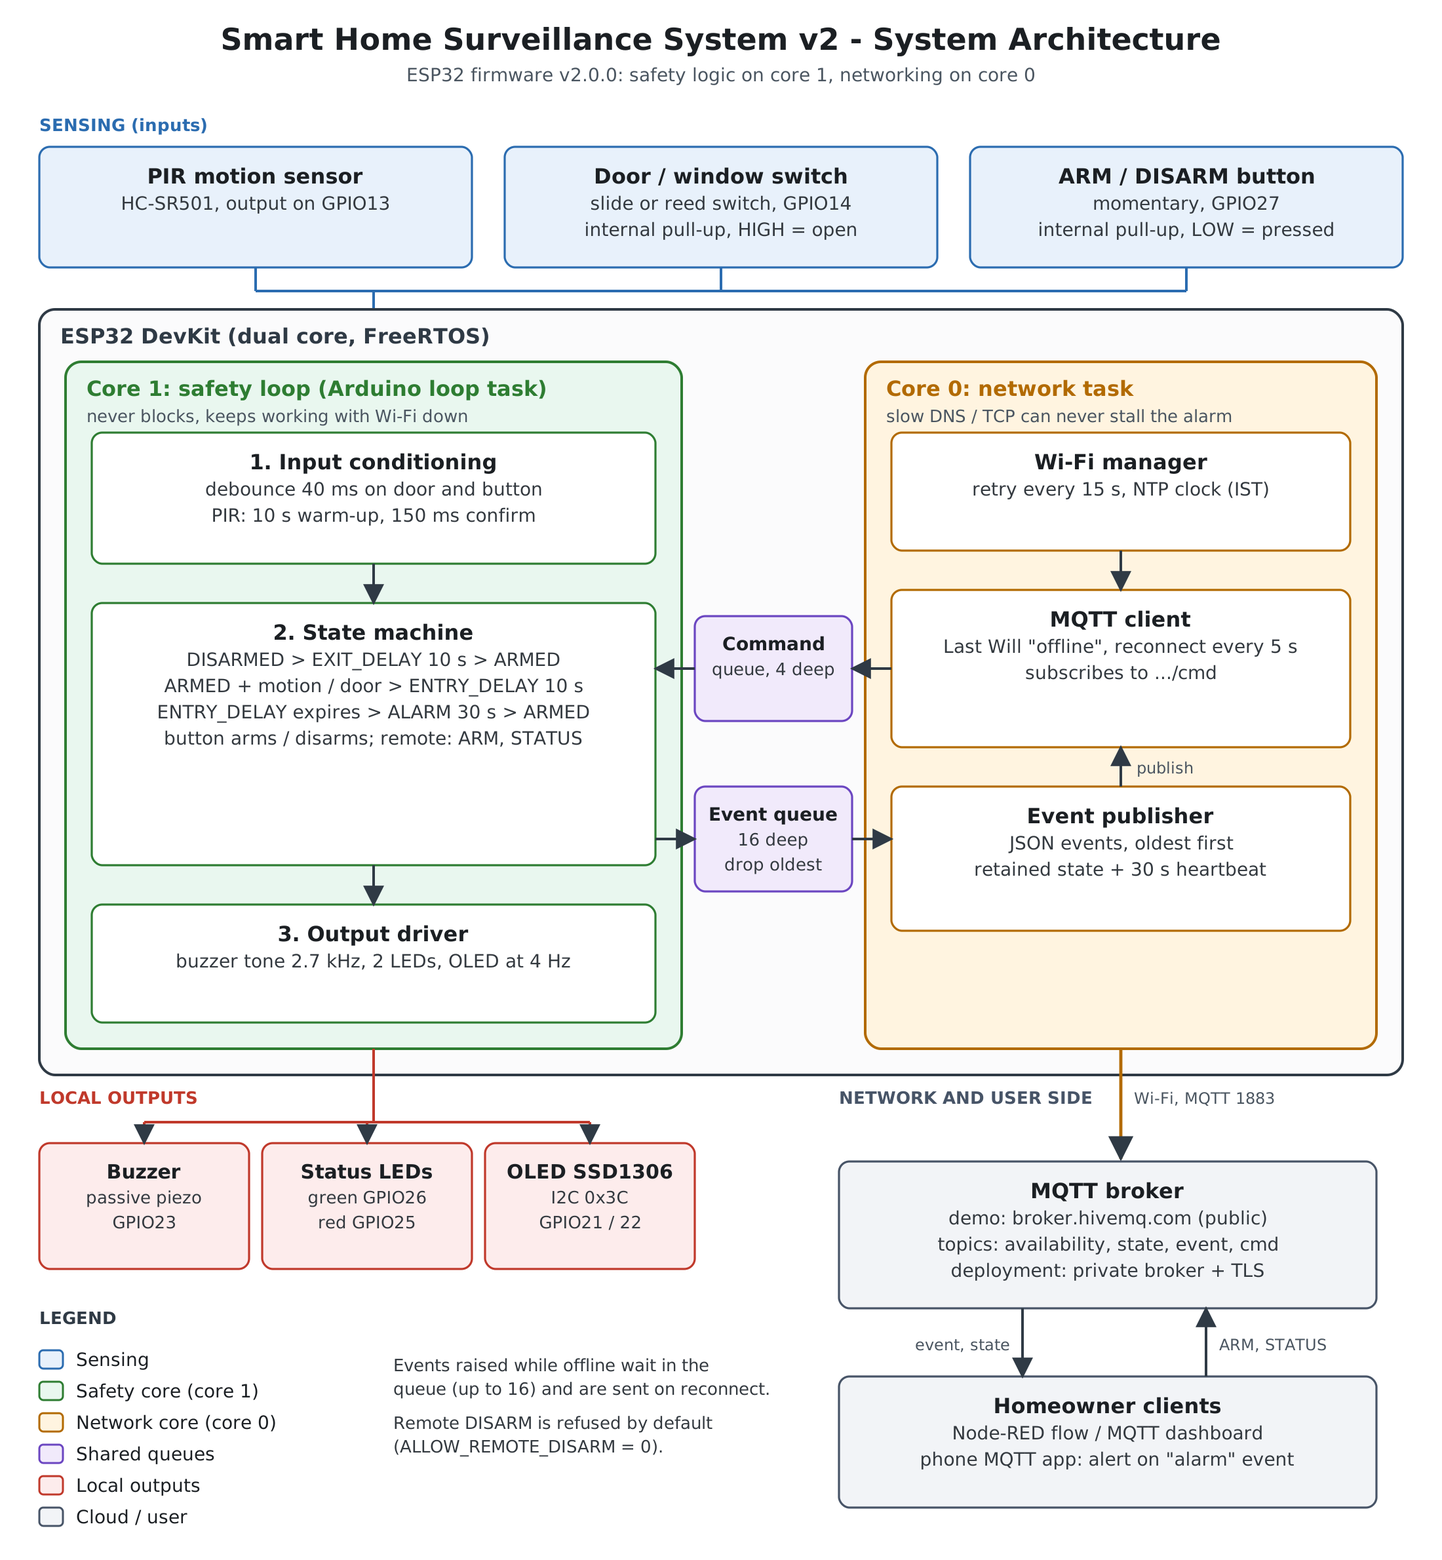
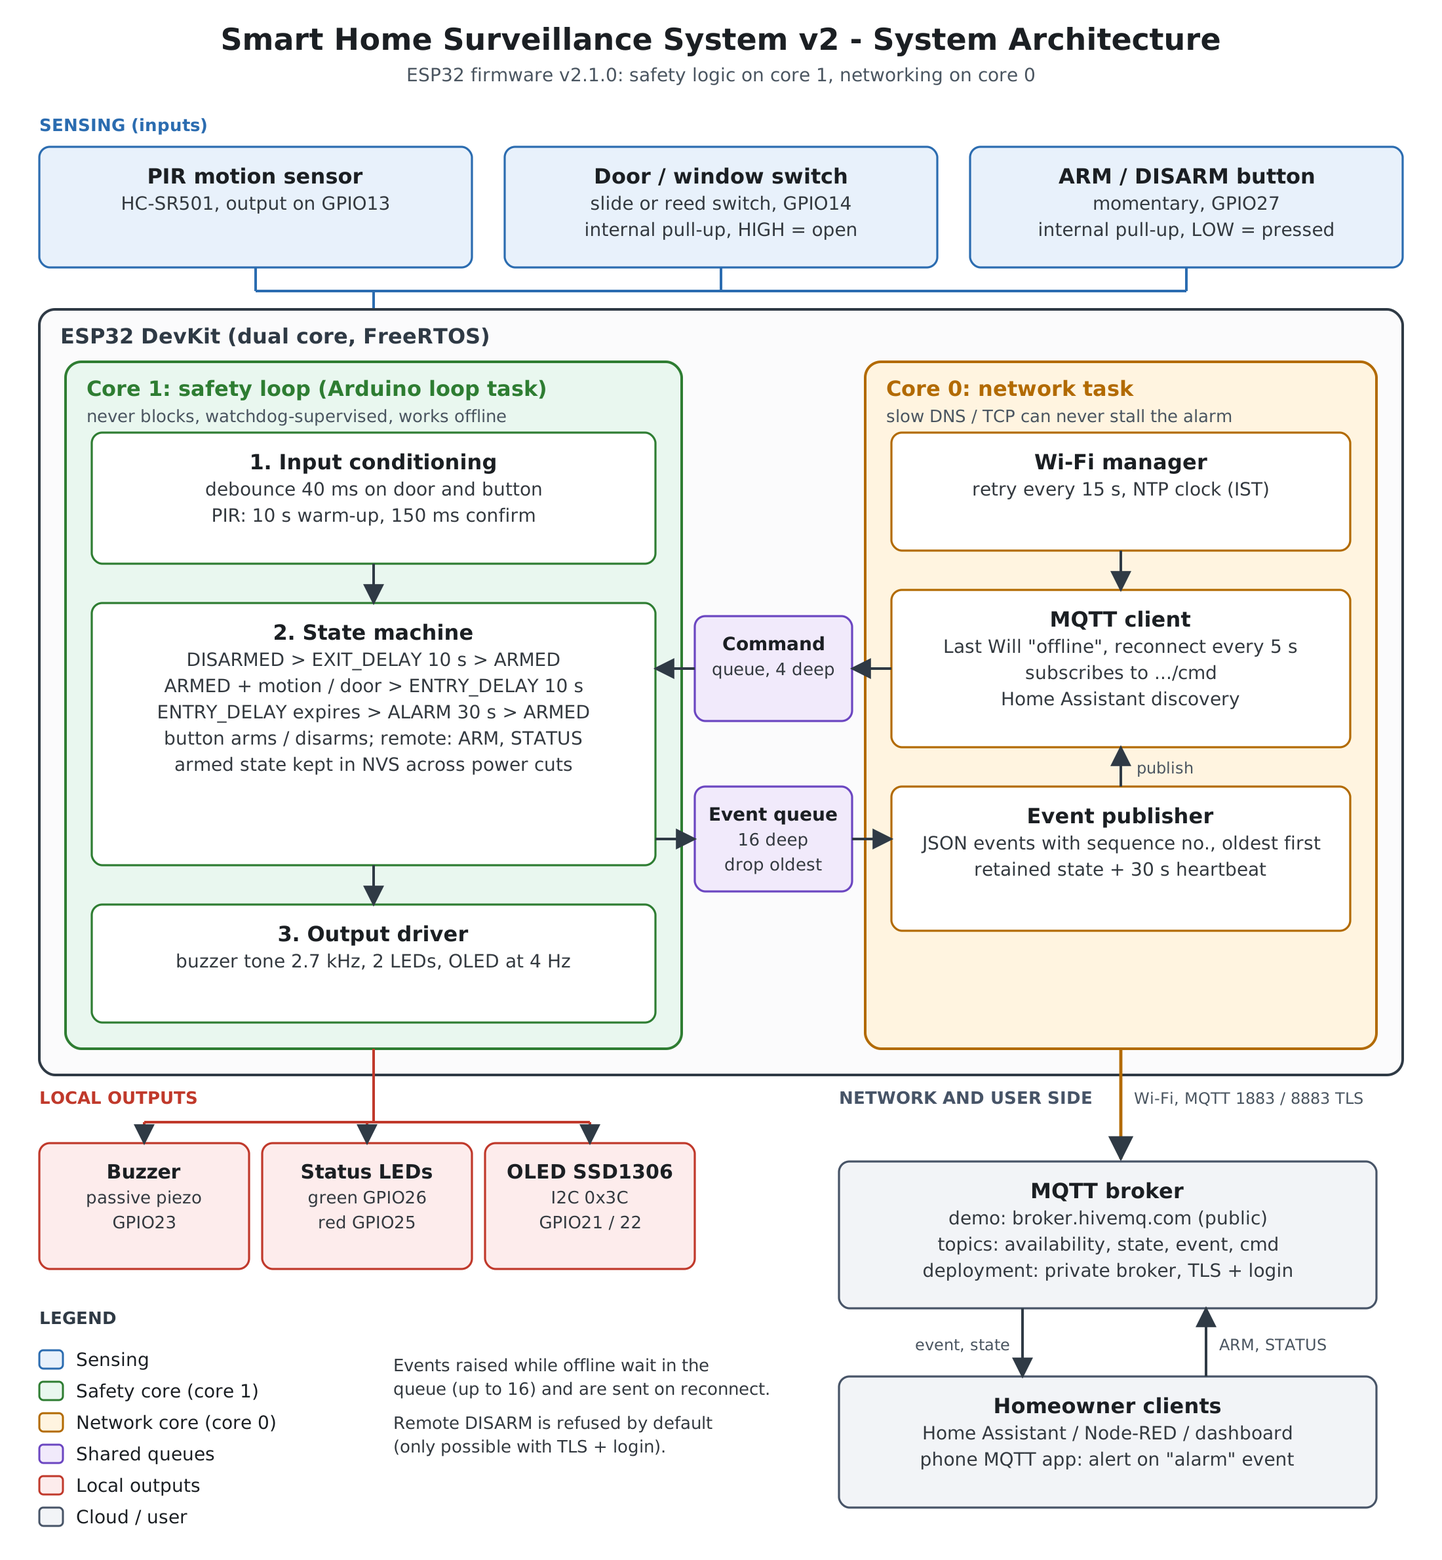
docs: rewrite README for v2.1.0, add security policy, changelog and diagrams
Adds the state machine and event sequence diagrams, updates the architecture diagram for NVS restore, watchdog, discovery and TLS, documents configuration, MQTT payloads, Home Assistant mapping, reliability measures and real ESP32 build sizes from CI.

diff --git a/README.md b/README.md
@@ -1,100 +1,247 @@
-# Smart Home Automation: Surveillance System
+# Smart Home Surveillance System
 
-![CI](https://github.com/mdhumayun7/Smart-Home-Automation/actions/workflows/ci.yml/badge.svg)
-![License: MIT](https://img.shields.io/badge/license-MIT-blue.svg)
+[![CI](https://github.com/mdhumayun7/Smart-Home-Automation/actions/workflows/ci.yml/badge.svg)](https://github.com/mdhumayun7/Smart-Home-Automation/actions/workflows/ci.yml)
+[![Release](https://img.shields.io/github/v/release/mdhumayun7/Smart-Home-Automation)](https://github.com/mdhumayun7/Smart-Home-Automation/releases)
+![Platform](https://img.shields.io/badge/platform-ESP32-blue)
+![Framework](https://img.shields.io/badge/arduino--esp32-2.0.17%20%7C%203.3.12-informational)
+[![License: MIT](https://img.shields.io/badge/license-MIT-green.svg)](LICENSE)
 
-An ESP32-based home surveillance system: motion and door sensing, a proper arm / disarm state machine with entry and exit delays, local siren and status display, and MQTT alerts. The alarm logic runs fully offline; networking lives in a separate FreeRTOS task so it can never stall the siren.
+ESP32 intrusion alarm firmware with a PIR motion sensor, a door contact, a local siren and status display, MQTT alerts and Home Assistant integration.
 
-Developed as part of M.Tech coursework at SVNIT Surat.
+Its main design rule is that the alarm never depends on the network. The detection logic and the siren run on one core and never wait for anything. Wi-Fi, NTP and MQTT run in a separate FreeRTOS task on the other core and exchange data with the alarm logic only through bounded queues.
+
+![Demo: software-in-the-loop run of the firmware](docs/media/demo.gif)
+
+*Software-in-the-loop run of the firmware: logic analyser view of the GPIO lines, live source trace, the display and MQTT traffic. [Full 2-minute video](docs/media/smart_home_demo.mp4).*
+
+---
+
+## Contents
+
+- [Features](#features)
+- [Architecture](#architecture)
+- [Hardware](#hardware)
+- [Getting started](#getting-started)
+- [Configuration](#configuration)
+- [MQTT interface](#mqtt-interface)
+- [Home Assistant](#home-assistant)
+- [Reliability and safety](#reliability-and-safety)
+- [Testing and CI](#testing-and-ci)
+- [Project structure](#project-structure)
+- [Roadmap](#roadmap)
 
 ## Features
 
-- Arm / disarm with exit delay (10 s), entry delay (10 s) and alarm timeout (30 s)
-- PIR motion sensing with warm-up, confirmation filter and rising-edge trigger
-- Door switch and button inputs with debouncing
-- Local outputs: buzzer, green (armed) and red (alarm) LEDs, SSD1306 OLED status screen
-- MQTT: Last Will availability, retained state, heartbeat, per-event JSON, remote `ARM` / `STATUS`
-- Offline event queue (16 deep) delivered in order after reconnect
-- Non-blocking firmware: no `delay()` in the safety path, display failure does not halt the system
-- Host-side unit tests run in CI
+**Alarm logic**
+- Five-state machine: `DISARMED`, `EXIT_DELAY` (10 s), `ARMED`, `ENTRY_DELAY` (10 s), `ALARM` (30 s, then re-arms)
+- PIR filtering: warm-up period, 150 ms confirmation and rising-edge trigger, so one person standing still does not retrigger the alarm
+- Door contact and ARM/DISARM button with 40 ms debouncing
+- Buzzer (2.7 kHz tone), two status LEDs and an SSD1306 OLED status screen
+
+**Reliability**
+- No blocking calls in the safety loop; all timing is wrap-safe across the 49.7-day `millis()` overflow
+- Armed state stored in NVS and restored after a power cut, so cutting the supply does not disarm the house
+- Task watchdog on the safety loop; the boot event reports the reset reason
+- Offline event queue (16 events) delivered in order after reconnecting; losses are counted, never silent
+
+**Connectivity and security**
+- MQTT with Last Will, retained state, 30 s heartbeat and one JSON message per event with a sequence number
+- Remote `ARM` and `STATUS`; remote `DISARM` is refused unless TLS and a broker login are configured (enforced at compile time)
+- Credentials in a git-ignored `secrets.h`; optional TLS on port 8883
+- Home Assistant MQTT discovery as an alarm control panel
 
 ## Architecture
 
 ![System architecture](docs/images/architecture.png)
 
-Safety logic runs on core 1 (Arduino loop). Wi-Fi, NTP and MQTT run on core 0 and talk to it only through two queues.
+| Core | Task | Responsibility |
+|---|---|---|
+| 1 | Arduino `loop` (safety loop) | Input conditioning, state machine, buzzer, LEDs, display. Never calls the network. |
+| 0 | `net` task | Wi-Fi with retry, NTP, MQTT connection, event delivery, heartbeat, Home Assistant discovery. |
+
+The two tasks share two FreeRTOS queues (events from core 1 to core 0, commands from core 0 to core 1) and one status snapshot that is protected by a mutex. The safety loop never waits on the mutex; it skips a snapshot rather than block.
+
+<details>
+<summary>State machine</summary>
+
+![State machine](docs/images/state_machine.png)
+
+If the door is still open when the exit delay ends, the entry delay starts immediately. Only the local button can disarm the system by default.
+</details>
+
+<details>
+<summary>Event delivery and command flow</summary>
+
+![Event sequence](docs/images/event_sequence.png)
+
+The network task removes an event from the queue before publishing it. If the link drops during the publish, the event goes back to the front of the queue, so the order is kept and nothing is lost silently.
+</details>
 
 ## Hardware
 
 ![Circuit wiring](docs/images/circuit_wiring.png)
 
-| GPIO | Part | Note |
+| GPIO | Part | Notes |
 |---|---|---|
-| 13 | PIR OUT | PIR powered from VIN (5 V); OUT is 3.3 V logic |
-| 14 | Door switch | `INPUT_PULLUP`, HIGH = open |
-| 27 | ARM / DISARM button | `INPUT_PULLUP`, LOW = pressed |
-| 23 | Buzzer | 2.7 kHz tone (passive piezo); set `BUZZER_ACTIVE 1` for an active buzzer |
-| 26 | Green LED (ARMED) | 220 ohm series resistor |
-| 25 | Red LED (ALARM) | 220 ohm series resistor |
-| 21 / 22 | OLED SDA / SCL | SSD1306, address 0x3C |
+| 13 | HC-SR501 PIR, OUT | Powered from VIN (5 V); OUT is 3.3 V logic |
+| 14 | Door contact (reed or slide switch) | `INPUT_PULLUP`; HIGH = open |
+| 27 | ARM/DISARM push button | `INPUT_PULLUP`; LOW = pressed |
+| 23 | Piezo buzzer | 2.7 kHz tone from the LEDC peripheral; `BUZZER_ACTIVE 1` for an active buzzer |
+| 26 | Green LED (armed) | 220 ohm series resistor |
+| 25 | Red LED (alarm) | 220 ohm series resistor |
+| 21 / 22 | SSD1306 OLED, SDA / SCL | I2C address 0x3C |
 
-## Quick start (Wokwi simulator)
+None of the ESP32 strapping pins (GPIO 0, 2, 5, 12, 15) is used.
 
-1. Create a new ESP32 project at [wokwi.com](https://wokwi.com).
-2. Replace its `sketch.ino` with `firmware/smart_home/smart_home.ino`, `diagram.json` with `wokwi/diagram.json`, and `libraries.txt` with `wokwi/libraries.txt`.
-3. Start the simulation, click the ARM button, wait for `ARMED`, then click the PIR or toggle the door switch.
+**Bill of materials:** ESP32 DevKit v1, HC-SR501 PIR module, reed switch, tactile push button, passive piezo buzzer, green and red 5 mm LEDs with two 220 ohm resistors, 0.96" SSD1306 OLED (I2C).
 
-Required libraries: Adafruit SSD1306, Adafruit GFX Library, PubSubClient.
+**Build size** (from CI, `esp32:esp32:esp32`):
+
+| arduino-esp32 | Flash | RAM (globals) |
+|---|---|---|
+| 2.0.17 | 790,649 B (60.3 % of 1,310,720) | 46,204 B (14.1 % of 327,680) |
+| 3.3.12 | 965,281 B (73.6 % of 1,310,720) | 49,708 B (15.2 % of 327,680) |
+
+## Getting started
+
+### In the Wokwi simulator
+
+1. Create an ESP32 project at [wokwi.com](https://wokwi.com).
+2. Copy `firmware/smart_home/smart_home.ino` into `sketch.ino`, and replace `diagram.json` and `libraries.txt` with the files in `wokwi/`.
+3. Start the simulation. Press the ARM button, wait for `ARMED`, then click the PIR sensor or toggle the door switch.
+
+The default build uses the simulator's `Wokwi-GUEST` network and the public HiveMQ broker, so no configuration is needed.
+
+### On an ESP32 board
+
+1. Install the ESP32 board package (arduino-esp32 2.0.17 or 3.x) and the libraries **Adafruit SSD1306**, **Adafruit GFX Library** and **PubSubClient**.
+2. Copy `firmware/smart_home/secrets.example.h` to `firmware/smart_home/secrets.h` and fill in your Wi-Fi and broker details.
+3. Set `PIR_WARMUP_MS` to `60000` for a physical HC-SR501, which needs about a minute to settle.
+4. Select **ESP32 Dev Module** and upload. The Serial Monitor (115200 baud) prints the device id and the MQTT topics.
+
+With `arduino-cli`:
+
+```bash
+arduino-cli compile --fqbn esp32:esp32:esp32 firmware/smart_home
+arduino-cli upload  --fqbn esp32:esp32:esp32 -p /dev/ttyUSB0 firmware/smart_home
+```
+
+## Configuration
+
+| Setting | Where | Default |
+|---|---|---|
+| Wi-Fi SSID, password, channel | `secrets.h` | `Wokwi-GUEST`, open, channel 6 |
+| Broker host, port, user, password | `secrets.h` | `broker.hivemq.com:1883`, no login |
+| TLS and CA certificate | `secrets.h` (`MQTT_USE_TLS`, `SECRET_MQTT_CA_CERT`) | Off |
+| Remote DISARM | `secrets.h` (`ALLOW_REMOTE_DISARM`) | Off; requires TLS and login |
+| Exit / entry delay, alarm duration | `smart_home.ino` | 10 s / 10 s / 30 s |
+| PIR warm-up and confirmation | `smart_home.ino` | 10 s / 150 ms |
+| Home Assistant discovery | `HA_DISCOVERY` | On |
+| Restore armed state at boot | `RESTORE_ARMED_ON_BOOT` | On |
+| Loop watchdog | `ENABLE_LOOP_WDT` | On |
 
 ## MQTT interface
 
-Topic root: `svnit/smarthome/<deviceId>/` (the device id is printed on the Serial Monitor at boot).
+All topics are under `svnit/smarthome/<deviceId>/`, where the device id is derived from the chip's MAC address (for example `esp32-A1B2C3D4E5F6`).
 
-| Topic | Direction | Content |
-|---|---|---|
-| `availability` | device to broker, retained | `online` / `offline` (Last Will) |
-| `state` | device to broker, retained | JSON: state, door, pir, rssi, counters, uptime |
-| `event` | device to broker | JSON per event (`boot`, `exit_delay`, `armed`, `motion`, `door_open`, `door_closed`, `entry_delay`, `alarm`, `alarm_end`, `disarmed`, `cmd_rejected`, `cmd_ignored`) |
-| `cmd` | broker to device | `ARM`, `STATUS` (`DISARM` only if `ALLOW_REMOTE_DISARM` is 1) |
+| Topic | Direction | Retained | Content |
+|---|---|---|---|
+| `availability` | device to broker | yes | `online`, or `offline` as the Last Will |
+| `state` | device to broker | yes | JSON snapshot on every change and every 30 s |
+| `event` | device to broker | no | One JSON message per event |
+| `cmd` | broker to device | no | `ARM` (or `ARM_AWAY`), `STATUS`; `DISARM` only if enabled |
 
-Quick check: `mosquitto_sub -h broker.hivemq.com -t "svnit/smarthome/#" -v`
+```json
+{"id":"esp32-A1B2C3D4E5F6","seq":7,"ts":1791786626,"up":26150,"event":"motion","src":"pir"}
+```
 
-## Tests
+```json
+{"id":"esp32-A1B2C3D4E5F6","fw":"2.1.0","ts":1791786660,"state":"ALARM","ha":"triggered","door":"closed",
+ "pir":"idle","rssi":-55,"events":12,"alarms":1,"dropped":0,"queued":0,"up_s":60}
+```
+
+Events: `boot` (source = reset reason), `restored_armed`, `exit_delay`, `armed`, `motion`, `door_open`, `door_closed`, `entry_delay`, `alarm`, `alarm_end`, `disarmed`, `cmd_rejected`, `cmd_ignored`.
+
+`ts` is UTC epoch seconds once NTP has synchronised (0 before), `up` is milliseconds since boot, and `seq` increases by one per event since boot, so a client can detect missing or duplicate messages.
+
+Watch the demo device with:
+
+```bash
+mosquitto_sub -h broker.hivemq.com -t "svnit/smarthome/#" -v
+```
+
+## Home Assistant
+
+With the MQTT integration enabled, the device publishes a retained discovery message to `homeassistant/alarm_control_panel/<deviceId>/config` and appears as an alarm panel named **Smart Home Surveillance**. The firmware states map to Home Assistant states as follows:
+
+| Firmware | Home Assistant |
+|---|---|
+| `DISARMED` | `disarmed` |
+| `EXIT_DELAY` | `arming` |
+| `ARMED` | `armed_away` |
+| `ENTRY_DELAY` | `pending` |
+| `ALARM` | `triggered` |
+
+Arming from Home Assistant works out of the box. Disarming from Home Assistant is rejected unless remote disarm has been enabled with TLS and a broker login.
+
+## Reliability and safety
+
+| Concern | How it is handled |
+|---|---|
+| Slow or failed network calls | Run only on core 0; the safety loop never waits for them |
+| `millis()` overflow after 49.7 days | All timing uses unsigned differences or signed deadline comparisons; tests start the clock just before the wrap |
+| Power cut while armed | Armed state in NVS, written once per arm and once per disarm |
+| Firmware hang | Task watchdog on the loop task; reset reason reported at boot |
+| Network outage | 16-event queue, delivered in order; overflow drops the oldest and counts it |
+| Faulty display | Initialisation failure is logged and the alarm keeps running |
+| Sensor noise | Debouncing, PIR warm-up, confirmation time and edge detection |
+
+See [SECURITY.md](SECURITY.md) for the threat model and the known gaps.
+
+## Testing and CI
 
 ```bash
 ./tests/host/run_tests.sh
 ```
 
-Compiles the firmware against stubbed Arduino, FreeRTOS, Wi-Fi, MQTT and OLED layers and runs 10 scenarios at three `millis()` start values (including the 32-bit wrap), for both arduino-esp32 2.x and 3.x APIs. Covers the state machine, input filtering, remote commands, display failure, retry timing, offline queue ordering, overflow and JSON validity.
+The firmware source is compiled unchanged on a PC against stub implementations of the Arduino, FreeRTOS, Wi-Fi, MQTT, NVS and display interfaces, with `-Wall -Wextra -Werror`. Fourteen scenarios are each run at three starting values of the millisecond clock (0, 2^31 and just before the 32-bit wrap) and against the arduino-esp32 2.x and 3.x interfaces: 84 runs in total, plus a build check of the TLS configuration. Every MQTT payload is parsed as JSON.
 
-These tests check logic, not electrical behaviour. The Wokwi simulation and real hardware still need a manual check.
+| Area | Scenarios |
+|---|---|
+| State machine | `basic`, `arm_alarm`, `disarm_in_entry`, `door_left_open` |
+| Input filtering | `pir_edge`, `pir_glitch` |
+| Commands | `remote` |
+| Fault tolerance | `display_fail`, `persist`, `restore`, `restore_door`, `diag` |
+| Display | `oled` |
+| Networking | `network` (retry timing, Last Will, retained state, discovery, ordering, failed publish, queue race, overflow, heartbeat) |
 
-## Repository layout
+GitHub Actions runs the host tests and compiles the firmware for the ESP32 with arduino-esp32 2.0.17 and 3.3.12, reporting flash and RAM usage on every push.
+
+What the tests do not cover: electrical behaviour, real Wi-Fi and broker timing, and true parallel execution on the two cores. These need the Wokwi simulator or real hardware.
+
+## Project structure
 
 ```
-firmware/smart_home/   ESP32 sketch (smart_home.ino)
-wokwi/                 Wokwi circuit and library list
-docs/images/           Architecture and wiring diagrams (PNG and SVG)
-tests/host/            Host-side test harness and stubs
-.github/workflows/     CI
+firmware/smart_home/
+  smart_home.ino          firmware
+  secrets.example.h       template for credentials (copy to secrets.h)
+wokwi/                    Wokwi circuit (diagram.json) and library list
+tests/host/               host test harness, stubs and run_tests.sh
+docs/images/              architecture, wiring, state machine and sequence diagrams (SVG and PNG)
+docs/media/               demo video and GIF
+.github/workflows/ci.yml  host tests and ESP32 builds
 ```
-
-## Security notes
-
-- `broker.hivemq.com` is a public, unauthenticated demo broker. For real use run a private broker with username/password and TLS (port 8883), and keep credentials in an untracked `secrets.h`.
-- Remote `DISARM` is disabled by default for the same reason.
 
 ## Roadmap
 
-- Camera snapshot on alarm (ESP32-CAM)
-- Notification consumer (Node-RED to Telegram or a phone MQTT app)
-- Arduino CLI compile check in CI for the ESP32 target
-- TLS and authenticated broker option in the firmware
-
-## License
-
-MIT, see [LICENSE](LICENSE).
+- Signed over-the-air updates, secure boot and flash encryption
+- Tamper switch and battery backup with low-battery events
+- ESP32-CAM node that captures an image on the `alarm` event
+- Automated Wokwi simulation test in CI
+- MQTT client with acknowledged delivery (QoS 1) for events
 
 ## Author
 
-MD Humayun, M.Tech (CSE, Information Security and Privacy), SVNIT Surat.
+**MD Humayun**, M.Tech Computer Science and Engineering, SVNIT Surat. [GitHub](https://github.com/mdhumayun7) · [LinkedIn](https://www.linkedin.com/in/md-humayun-82051521a/)
+
+Released under the [MIT License](LICENSE).

diff --git a/SECURITY.md b/SECURITY.md
@@ -1,0 +1,33 @@
+# Security
+
+## Threat model
+
+The device is an intrusion alarm, so its security goals are:
+
+1. Detection and the local siren must keep working when the network is down or under attack.
+2. Nobody on the network may switch the alarm off.
+3. Cutting the power must not leave the house disarmed.
+4. Alerts should not reveal to outsiders when the house is empty.
+
+| Threat | Default build (demo) | With `secrets.h`, TLS and login |
+|---|---|---|
+| Remote disarm by anyone who learns the topic | Prevented: remote `DISARM` is refused | Optional, and only compiles with TLS and a broker login |
+| Wi-Fi jammed or router switched off | Local alarm continues; events queued (16) and sent on reconnect; broker publishes the Last Will `offline` | Same |
+| Power cut or reset while armed | Armed state restored from NVS; door found open starts the entry delay | Same |
+| Firmware hang | Task watchdog resets the device; boot event reports the reason | Same |
+| Eavesdropping on events (house empty?) | Possible: public broker, no encryption | Encrypted (TLS 8883); private broker |
+| Forged commands or events | `ARM` and `STATUS` accepted from anyone | Only clients with broker credentials; use per-topic ACLs on the broker |
+| Credentials leaked through the repository | No credentials in the source; `secrets.h` is git-ignored | Same |
+
+## Not yet covered
+
+- No signed over-the-air updates and no secure boot or flash encryption.
+- No tamper switch on the enclosure and no battery backup.
+- Commands carry no nonce or signature; with TLS and ACLs this relies on the broker for authentication.
+- MQTT publishing is at most once (PubSubClient); the queue covers outages, not loss in transit.
+
+These are tracked as future work in the README.
+
+## Reporting a vulnerability
+
+Please open a GitHub issue with the label `security`, or contact the author through the profile page. Do not include working credentials in the report.

diff --git a/CHANGELOG.md b/CHANGELOG.md
@@ -1,5 +1,31 @@
 # Changelog
 
+All notable changes to this project are documented here. The format follows
+[Keep a Changelog](https://keepachangelog.com/en/1.1.0/) and the project uses
+[Semantic Versioning](https://semver.org/).
+
+## 2.1.0 - 2026-10-12
+
+### Added
+- Armed state stored in NVS and restored after a power cut or reset; a door found open at power-up starts the entry delay.
+- Task watchdog on the safety loop; the boot event reports the reset reason (power-on, watchdog, brown-out, ...).
+- Optional `secrets.h` for Wi-Fi and broker credentials (`secrets.example.h` provided, file git-ignored).
+- Optional TLS (port 8883) with CA certificate and broker login.
+- Home Assistant MQTT discovery: the device appears as an alarm control panel; the state message carries the Home Assistant state name (`ha`).
+- Sequence number (`seq`) on every event so clients can detect gaps and duplicates.
+- `ARM_AWAY` accepted as an alias of `ARM`.
+- CI compiles the firmware for the ESP32 with arduino-esp32 2.0.17 and the latest 3.x release and reports flash and RAM usage.
+- Host tests for persistence, restore, diagnostics, discovery and the queue race; every MQTT payload is validated as JSON; tests build with `-Werror`.
+- State machine and event sequence diagrams; demo video of a software-in-the-loop run.
+- `SECURITY.md` with the threat model.
+
+### Changed
+- Remote `DISARM` can only be enabled together with TLS and a broker login (compile-time check).
+- MQTT packet buffer raised to 1024 bytes for the discovery message.
+
+### Fixed
+- When the offline queue overflowed while the network task was delivering the backlog, an event could be removed without being published or counted. The network task now takes the event out of the queue before publishing and puts it back at the front if the link drops; unrecoverable events are counted in `dropped`.
+
 ## 2.0.0
 
 ### Changed
